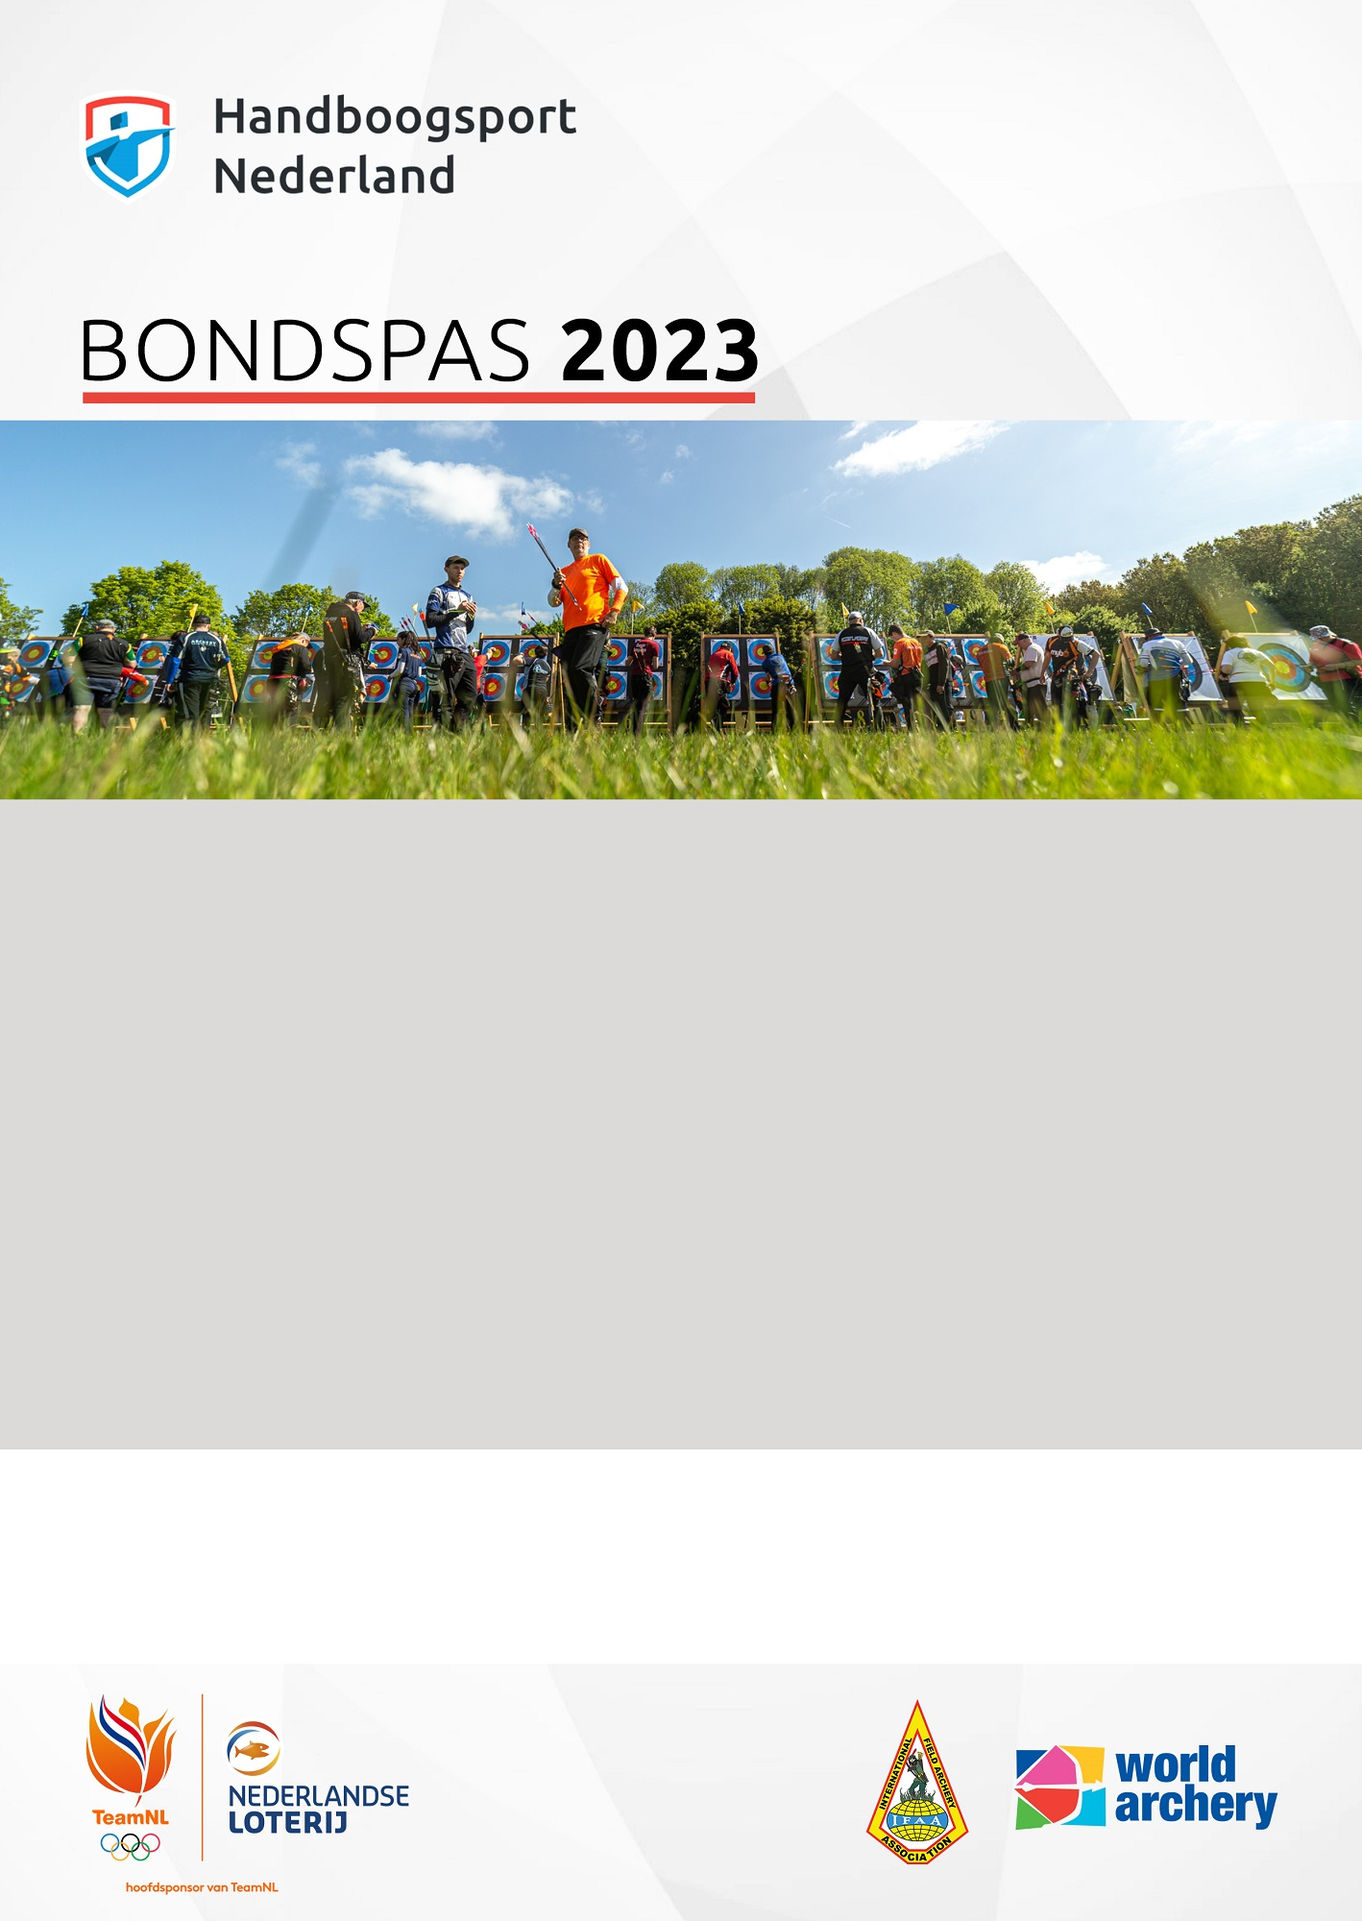
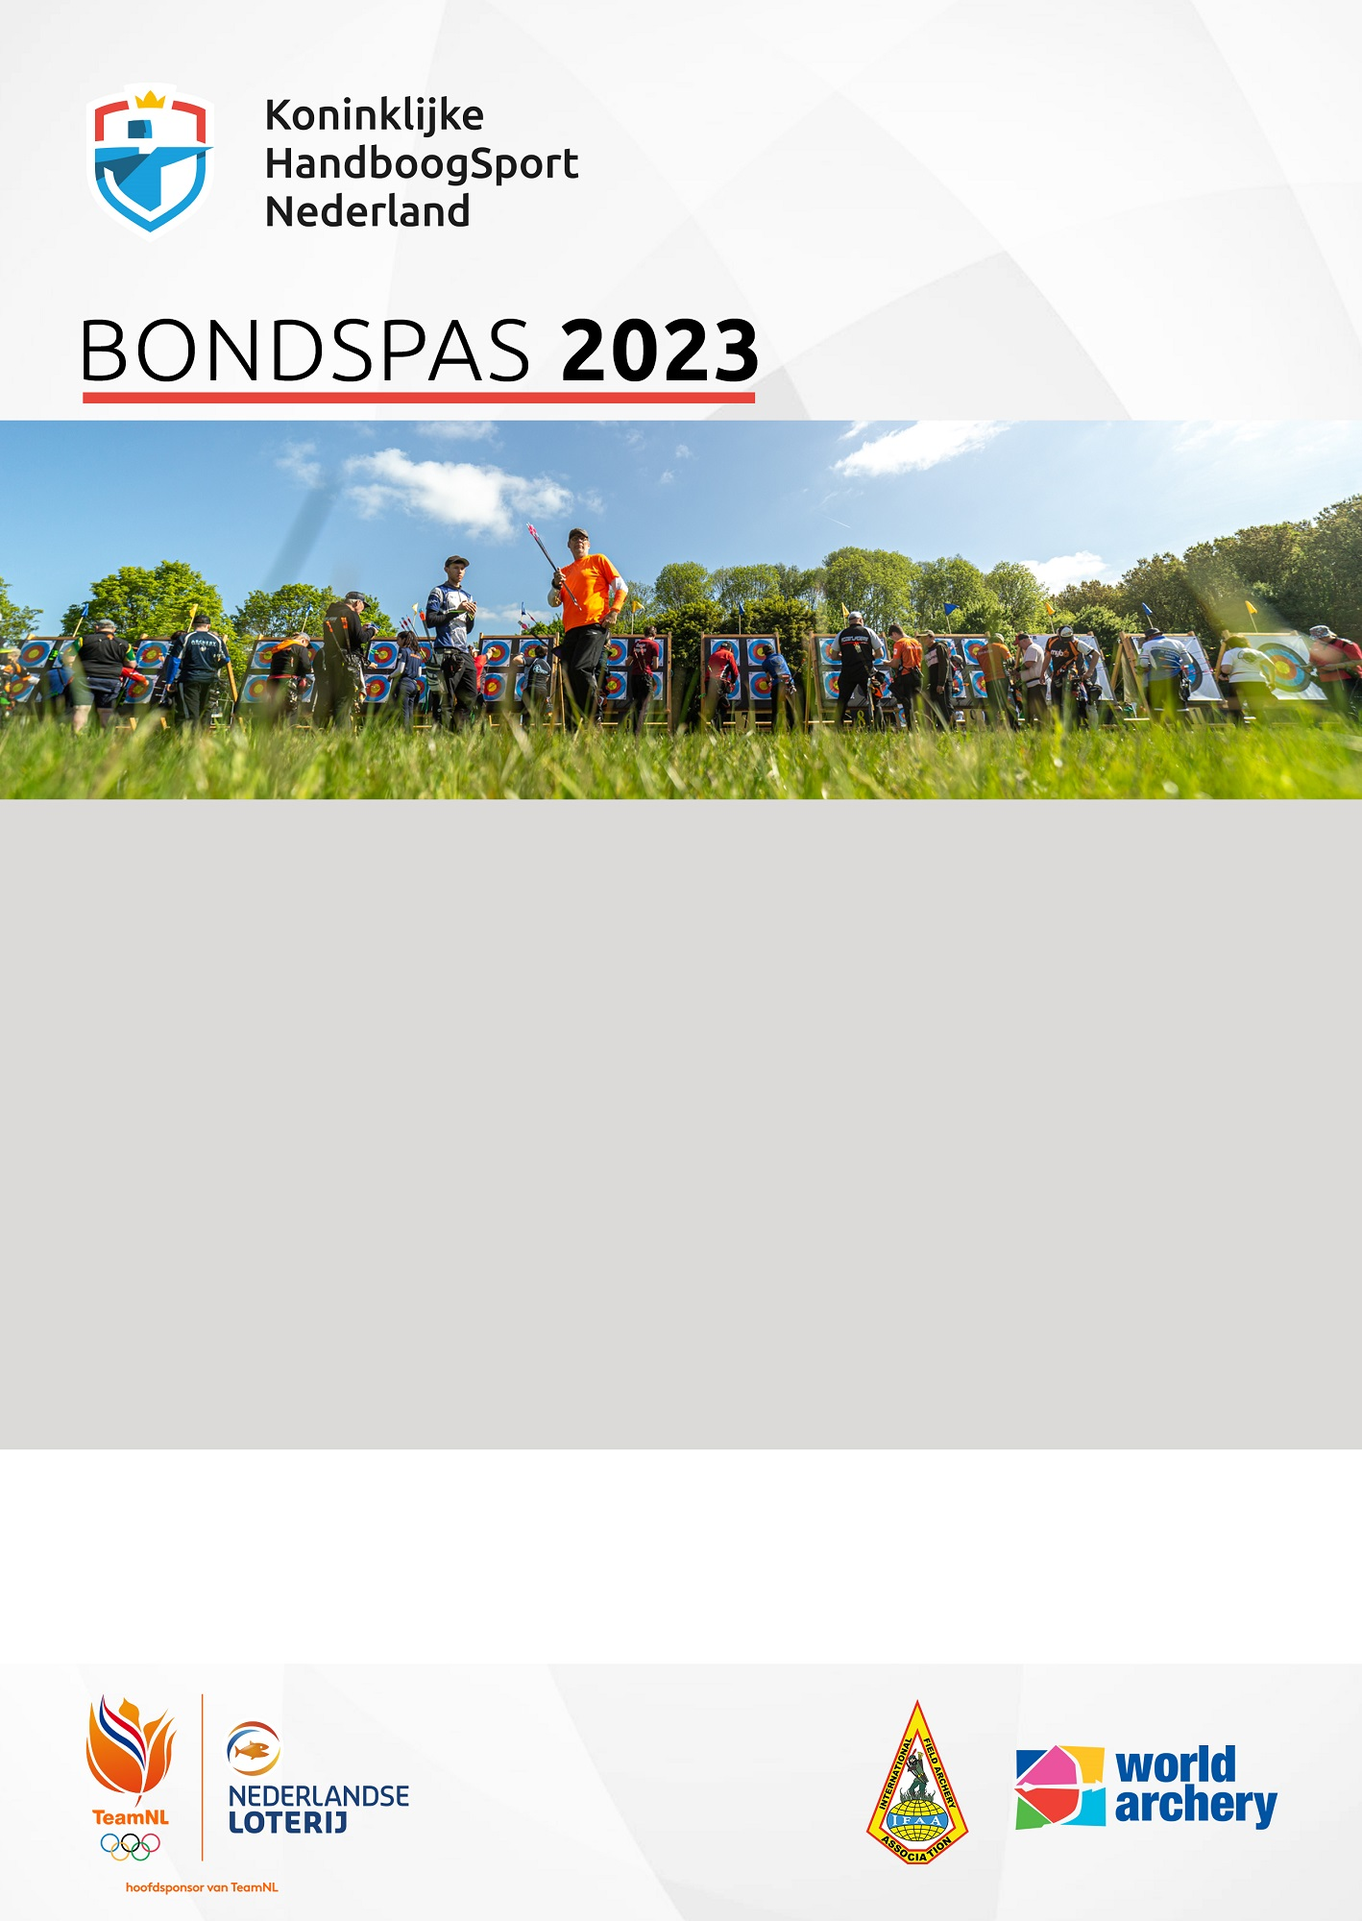
Organization rename to KHSN

Changed region(s): [[0.0621, 0.031, 0.4344, 0.124]]

diff --git a/Bondspas/view_online.py b/Bondspas/view_online.py
@@ -18,7 +18,7 @@ from Opleidingen.models import OpleidingDiploma
 from Plein.menu import menu_dynamics
 from Sporter.models import Sporter, get_sporter_voorkeuren
 from Sporter.leeftijdsklassen import (bereken_leeftijdsklasse_wa,
-                                      bereken_leeftijdsklasse_nhb,
+                                      bereken_leeftijdsklasse_khsn,
                                       bereken_leeftijdsklasse_ifaa)
 from PIL import Image, ImageFont, ImageDraw
 from PIL.TiffImagePlugin import ImageFileDirectory_v2
@@ -126,20 +126,20 @@ def maak_bondspas_regels(lid_nr, jaar):
         # geslacht M/V of
         # geslacht X + keuze voor M/V gemaakt
         wedstrijdgeslacht = voorkeur.wedstrijd_geslacht
-        wedstrijdgeslacht_nhb = voorkeur.wedstrijd_geslacht
+        wedstrijdgeslacht_khsn = voorkeur.wedstrijd_geslacht
     else:
         # geslacht X, geen keuze gemaakt --> neem mannen
         wedstrijdgeslacht = 'M'
-        wedstrijdgeslacht_nhb = GESLACHT_ANDERS
+        wedstrijdgeslacht_khsn = GESLACHT_ANDERS
 
     regels.append(('Wedstrijdklassen', ''))
 
     lkl_wa = bereken_leeftijdsklasse_wa(wedstrijdleeftijd_wa, wedstrijdgeslacht)
     regels.append(("WA", lkl_wa))
 
-    lkl_nhb = bereken_leeftijdsklasse_nhb(wedstrijdleeftijd_wa, wedstrijdgeslacht_nhb)
-    if lkl_nhb != lkl_wa:
-        regels.append(("NHB", lkl_nhb))
+    lkl_khsn = bereken_leeftijdsklasse_khsn(wedstrijdleeftijd_wa, wedstrijdgeslacht_khsn)
+    if lkl_khsn != lkl_wa:
+        regels.append(("KHSN", lkl_khsn))
 
     lkl_ifaa_1 = bereken_leeftijdsklasse_ifaa(wedstrijdleeftijd_ifaa_voor_verjaardag, wedstrijdgeslacht)
     lkl_ifaa_2 = bereken_leeftijdsklasse_ifaa(wedstrijdleeftijd_ifaa_vanaf_verjaardag, wedstrijdgeslacht)
@@ -219,7 +219,7 @@ def maak_bondspas_image(lid_nr, jaar, regels):
     font = ImageFont.truetype(settings.BONDSPAS_FONT, size=40)
     font_bold = ImageFont.truetype(settings.BONDSPAS_FONT_BOLD, size=45)
     color_black = (0, 0, 0)
-    color_grijs = (221, 217, 215)       # reverse engineered
+    # color_grijs = (221, 217, 215)       # reverse engineered
 
     # het grijze kader waarin de tekst moet komen
     # coördinaten: (0,0) = top-left
@@ -232,7 +232,7 @@ def maak_bondspas_image(lid_nr, jaar, regels):
     # color_grijs = (200, 200, 200)
     # draw.rectangle(((grijze_kader_x1, grijze_kader_y1), (grijze_kader_x2, grijze_kader_y2)), fill=color_grijs)
 
-    witte_kader_x1 = 0
+    # witte_kader_x1 = 0
     witte_kader_x2 = width
     witte_kader_y1 = grijze_kader_y2 + 1
     witte_kader_y2 = witte_kader_y1 + 225
@@ -258,24 +258,28 @@ def maak_bondspas_image(lid_nr, jaar, regels):
     wa_id = regels[1][1]
     regels = regels[2:]
 
-    _, _, text_width, text_height = draw.textbbox((0, 0), lid_nr, font=font_bold)
+    _, _, text_width, text_height = draw.textbbox((0, 0),
+                                                  lid_nr, font=font_bold)
 
     wa_id_x = bondsnr_x = witte_kader_x1
+    wa_id_y = witte_kader_y_midden + 25
 
     if len(wa_id):
         bondsnr_y = witte_kader_y_midden - 25
-        wa_id_y = witte_kader_y_midden + 25
     else:
         bondsnr_y = witte_kader_y_midden
 
     # bondsnummer
     # text anchors: https://pillow.readthedocs.io/en/stable/handbook/text-anchors.html
     bondsnr_width = draw.textlength("Bondsnummer: ", font=font)
-    draw.text((bondsnr_x, bondsnr_y), "Bondsnummer: ", color_black, font=font, anchor="lb")
-    draw.text((bondsnr_x + bondsnr_width, bondsnr_y), lid_nr, color_black, font=font_bold, anchor="lb")
+    draw.text((bondsnr_x, bondsnr_y),
+              "Bondsnummer: ", color_black, font=font, anchor="lb")
+    draw.text((bondsnr_x + bondsnr_width, bondsnr_y),
+              lid_nr, color_black, font=font_bold, anchor="lb")
 
     if len(wa_id):
-        draw.text((wa_id_x, wa_id_y), "World Archery ID: " + wa_id, color_black, font=font, anchor="lt")
+        draw.text((wa_id_x, wa_id_y),
+                  "World Archery ID: " + wa_id, color_black, font=font, anchor="lt")
 
     # barcode
     # 480 plaatst deze midden boven de logo's van WA en IFAA
@@ -315,11 +319,14 @@ def maak_bondspas_image(lid_nr, jaar, regels):
         if header:
             header += ': '
             if wkl:
-                draw.text((grijze_kader_x1 + header_width - header_width_wkl + wkl_indent, next_y), header, color_black, font=font_bold)
+                draw.text((grijze_kader_x1 + header_width - header_width_wkl + wkl_indent, next_y),
+                          header, color_black, font=font_bold)
             else:
-                draw.text((grijze_kader_x1, next_y), header, color_black, font=font)
+                draw.text((grijze_kader_x1, next_y),
+                          header, color_black, font=font)
 
-        draw.text((grijze_kader_x1 + header_width, next_y), regel, color_black, font=font)
+        draw.text((grijze_kader_x1 + header_width, next_y),
+                  regel, color_black, font=font)
         next_y += text_spacing
 
         if header == "Wedstrijdklassen: ":

diff --git a/Sporter/view_registreer_nhb.py b/Sporter/view_registreer_nhb.py
@@ -42,19 +42,19 @@ def sporter_create_account_nhb(lid_nr_str, email, nieuw_wachtwoord):
         # deze conversie beschermd ook tegen gevaarlijke invoer
         lid_nr = int(lid_nr_str)
     except ValueError:
-        raise AccountCreateError('Onbekend NHB nummer')
+        raise AccountCreateError('Onbekend bondsnummer')
 
     try:
         sporter = Sporter.objects.get(lid_nr=lid_nr)
     except Sporter.DoesNotExist:
-        raise AccountCreateError('Onbekend NHB nummer')
+        raise AccountCreateError('Onbekend bondsnummer')
 
     if not mailer_email_is_valide(sporter.email):
         raise SporterGeenEmail(sporter)
 
     # vergelijk e-mailadres hoofdletter ongevoelig
     if email.lower() != sporter.email.lower():
-        raise AccountCreateError('De combinatie van NHB nummer en email worden niet herkend. Probeer het nog eens.')
+        raise AccountCreateError('De combinatie van bondsnummer en email worden niet herkend. Probeer het nog eens.')
 
     if not sporter.is_actief_lid or not sporter.bij_vereniging:
         raise SporterInactief()
@@ -91,9 +91,9 @@ class RegistreerNhbNummerView(TemplateView):
                 sporter_create_account_nhb(nhb_nummer, email, nieuw_wachtwoord)
             except SporterGeenEmail as exc:
                 schrijf_in_logboek(account=None,
-                                   gebruikte_functie="Registreer met NHB nummer",
-                                   activiteit='NHB lid %s heeft geen email adres.' % nhb_nummer)
-                my_logger.info('%s REGISTREER Geblokkeerd voor NHB nummer %s (geen email)' % (from_ip, repr(nhb_nummer)))
+                                   gebruikte_functie="Registreer met bondsnummer",
+                                   activiteit='Lid %s heeft geen email adres.' % nhb_nummer)
+                my_logger.info('%s REGISTREER Geblokkeerd voor bondsnummer %s (geen email)' % (from_ip, repr(nhb_nummer)))
 
                 # redirect naar een pagina met een uitgebreider duidelijk bericht
                 context = {'sec_email': '',
@@ -121,23 +121,23 @@ class RegistreerNhbNummerView(TemplateView):
 
                 # schrijf in het logboek
                 schrijf_in_logboek(account=None,
-                                   gebruikte_functie="Registreer met NHB nummer",
+                                   gebruikte_functie="Registreer met bondsnummer",
                                    activiteit="Mislukt voor nhb nummer %s vanaf IP %s: %s" % (repr(nhb_nummer), from_ip, str(exc)))
-                my_logger.info('%s REGISTREER Mislukt voor NHB nummer %s met email %s (reden: %s)' % (from_ip, repr(nhb_nummer), repr(email), str(exc)))
+                my_logger.info('%s REGISTREER Mislukt voor bondsnummer %s met email %s (reden: %s)' % (from_ip, repr(nhb_nummer), repr(email), str(exc)))
             except SporterInactief:
                 # lid is mag niet gebruik maken van de diensten van de NHB, inclusief deze website
                 schrijf_in_logboek(account=None,
-                                   gebruikte_functie="Registreer met NHB nummer",
-                                   activiteit='NHB lid %s is inactief (geblokkeerd van gebruik NHB diensten).' % nhb_nummer)
-                form.add_error(None, 'Gebruik van NHB diensten is geblokkeerd. Neem contact op met de secretaris van je vereniging.')
-                my_logger.info('%s REGISTREER Geblokkeerd voor NHB nummer %s (inactief)' % (from_ip, repr(nhb_nummer)))
+                                   gebruikte_functie="Registreer met bondsnummer",
+                                   activiteit='Lid %s is inactief (geblokkeerd van gebruik KHSN diensten).' % nhb_nummer)
+                form.add_error(None, 'Gebruik van KHSN diensten is geblokkeerd. Neem contact op met de secretaris van je vereniging.')
+                my_logger.info('%s REGISTREER Geblokkeerd voor bondsnummer %s (inactief)' % (from_ip, repr(nhb_nummer)))
                 # FUTURE: redirect naar een pagina met een uitgebreider duidelijk bericht
             else:
                 # schrijf in het logboek
                 schrijf_in_logboek(account=None,
-                                   gebruikte_functie="Registreer met NHB nummer",
-                                   activiteit="Account aangemaakt voor NHB nummer %s vanaf IP %s" % (repr(nhb_nummer), from_ip))
-                my_logger.info('%s REGISTREER account aangemaakt voor NHB nummer %s' % (from_ip, repr(nhb_nummer)))
+                                   gebruikte_functie="Registreer met bondsnummer",
+                                   activiteit="Account aangemaakt voor bondsnummer %s vanaf IP %s" % (repr(nhb_nummer), from_ip))
+                my_logger.info('%s REGISTREER account aangemaakt voor bondsnummer %s' % (from_ip, repr(nhb_nummer)))
 
                 request.session['login_naam'] = nhb_nummer
                 request.session['partial_email'] = mailer_obfuscate_email(email)

diff --git a/Sporter/leeftijdsklassen.py b/Sporter/leeftijdsklassen.py
@@ -4,7 +4,7 @@
 #  All rights reserved.
 #  Licensed under BSD-3-Clause-Clear. See LICENSE file for details.
 
-""" ondersteuning voor de leeftijdsklassen binnen de NHB applicaties """
+""" ondersteuning voor de leeftijdsklassen binnen de applicatie """
 
 from BasisTypen.definities import (GESLACHT_ALLE, GESLACHT_ANDERS, GESLACHT_MAN,
                                    ORGANISATIE_IFAA, ORGANISATIE_NHB, ORGANISATIE_WA,
@@ -12,7 +12,7 @@ from BasisTypen.definities import (GESLACHT_ALLE, GESLACHT_ANDERS, GESLACHT_MAN,
 from BasisTypen.models import LeeftijdsKlasse, TemplateCompetitieIndivKlasse
 
 
-def bereken_leeftijdsklassen_nhb(geboorte_jaar, wedstrijdgeslacht_nhb, huidige_jaar):
+def bereken_leeftijdsklassen_khsn(geboorte_jaar, wedstrijdgeslacht_nhb, huidige_jaar):
     """ retourneert de wedstrijdklassen voor een sporter vanaf 1 jaar terug tot 4 jaar vooruit.
         wedstrijdgeslacht_nhb kan zijn GESLACHT_MAN, GESLACHT_VROUW of GESLACHT_ANDERS
 
@@ -116,7 +116,7 @@ def bereken_leeftijdsklassen_nhb(geboorte_jaar, wedstrijdgeslacht_nhb, huidige_j
 
 def bereken_leeftijdsklassen_bondscompetitie(geboorte_jaar, wedstrijdgeslacht_nhb, huidige_jaar, huidige_maand):
     """ retourneert de wedstrijdklassen voor een sporter vanaf 1 jaar terug tot 4 jaar vooruit
-        voor de bondscompetities van de NHB.
+        voor de bondscompetities van de KHSN.
         wedstrijdgeslacht_nhb kan zijn GESLACHT_MAN, GESLACHT_VROUW of GESLACHT_ANDERS
 
         Retourneert:
@@ -406,9 +406,9 @@ def bereken_leeftijdsklasse_ifaa(wedstrijdleeftijd, wedstrijdgeslacht):
     return gevonden_lkl.beschrijving
 
 
-def bereken_leeftijdsklasse_nhb(wedstrijdleeftijd, wedstrijdgeslacht):
+def bereken_leeftijdsklasse_khsn(wedstrijdleeftijd, wedstrijdgeslacht):
     """
-        bepaal de meest exacte NHB leeftijdsklasse voor een sporter
+        bepaal de meest exacte KHSN leeftijdsklasse voor een sporter
         afhankelijk van zijn geboortejaar en wedstrijdgeslacht.
 
         Voorbeeld: Onder 12 Meisjes

diff --git a/Sporter/view_leeftijdsklassen.py b/Sporter/view_leeftijdsklassen.py
@@ -14,7 +14,7 @@ from Functie.definities import Rollen
 from Functie.rol import rol_get_huidige
 from Plein.menu import menu_dynamics
 from Sporter.leeftijdsklassen import (bereken_leeftijdsklassen_wa,
-                                      bereken_leeftijdsklassen_nhb,
+                                      bereken_leeftijdsklassen_khsn,
                                       bereken_leeftijdsklassen_ifaa,
                                       bereken_leeftijdsklassen_bondscompetitie)
 from Sporter.models import get_sporter_voorkeuren
@@ -26,6 +26,8 @@ TEMPLATE_LEEFTIJDSGROEPEN = 'sporter/leeftijdsgroepen.dtl'
 
 
 def redirect_leeftijdsklassen(request):
+    """ Deze functie wordt gebruikt om een oude URL om te leiden naar de nieuwe """
+    # TODO: verwijder in 2024
     url = reverse('Sporter:leeftijdsklassen')
     return HttpResponseRedirect(url)
 
@@ -75,7 +77,7 @@ class WedstrijdLeeftijdenPersoonlijkView(UserPassesTestMixin, TemplateView):
         context['lkl_wa'] = lkl_list
         context['lkl_wa_dit_jaar'] = lkl_dit_jaar
 
-        huidige_jaar, leeftijd, lkl_dit_jaar, lkl_lst = bereken_leeftijdsklassen_nhb(geboorte_jaar, wedstrijdgeslacht_nhb, now.year)
+        huidige_jaar, leeftijd, lkl_dit_jaar, lkl_lst = bereken_leeftijdsklassen_khsn(geboorte_jaar, wedstrijdgeslacht_nhb, now.year)
         context['lkl_nhb'] = lkl_lst
         spl = lkl_dit_jaar.split(' of ')
         context['lkl_nhb_dit_jaar_1'] = spl[0]

diff --git a/Sporter/forms.py b/Sporter/forms.py
@@ -15,14 +15,14 @@ class RegistreerForm(forms.Form):
         met een NHB nummer.
     """
     nhb_nummer = forms.CharField(
-                        label='NHB nummer',
+                        label='Bondsnummer',
                         min_length=6,
                         max_length=6,
                         required=True,
                         widget=forms.TextInput(attrs={'autofocus': True}))
 
     email = forms.EmailField(
-                        label='E-mail adres zoals bekend bij de NHB',
+                        label='E-mail adres zoals bekend bij de KHSN',
                         required=True)
 
     nieuw_wachtwoord = forms.CharField(

diff --git a/Account/view_wachtwoord.py b/Account/view_wachtwoord.py
@@ -98,7 +98,7 @@ class WachtwoordVergetenView(TemplateView):
 
             except AccountEmail.DoesNotExist:
                 # email is niet bekend en past niet bij de inlog naam
-                context['foutmelding'] = 'Voer het e-mailadres en NHB nummer in van een bestaand account'
+                context['foutmelding'] = 'Voer het e-mailadres en bondsnummer in van een bestaand account'
                 # (niet te veel wijzer maken over de combi NHB nummer en e-mailadres)
 
         # we controleren hier niet of het account inactief is, dat doet login wel weer

diff --git a/Functie/management/commands/check_beheerders.py b/Functie/management/commands/check_beheerders.py
@@ -34,7 +34,7 @@ class Command(BaseCommand):
                     sporter = account.sporter_set.prefetch_related('bij_vereniging').all()[0]
                 except IndexError:
                     sporter = None
-                    let_op = 'LET OP: account heeft geen koppeling met NHB lid'
+                    let_op = 'LET OP: account heeft geen koppeling met lid'
                 else:
                     if not sporter.bij_vereniging or not sporter.is_actief_lid:
                         # deze melding komt na 15 januari

diff --git a/Sporter/tests/test_login.py b/Sporter/tests/test_login.py
@@ -116,7 +116,7 @@ class TestSporterLogin(E2EHelpers, TestCase):
 
         resp = self.e2e_login_no_check(self.account_normaal, follow=True)
         self.assertEqual(resp.status_code, 200)
-        self.assertContains(resp, 'We hebben een nieuw e-mailadres doorgekregen uit de administratie van de NHB')
+        self.assertContains(resp, 'We hebben een nieuw e-mailadres doorgekregen uit de administratie van de KHSN')
         self.assertContains(resp, 'ni###e@test.com')
 
         # check niet ingelogd

diff --git a/Records/management/commands/check_records_wa.py b/Records/management/commands/check_records_wa.py
@@ -108,7 +108,7 @@ class Command(BaseCommand):         # pragma: no cover      # FUTURE: commando i
                 return self._cache_nhb[rec.pk]
         # for
 
-        self.stdout.write('[WARNING] Geen passend NHB record gevonden: soort=%s' % soort)
+        self.stdout.write('[WARNING] Geen passend KHSN record gevonden: soort=%s' % soort)
         self.stdout.write('          voor %s' % wa_rec)
         for rec in recs:
             self.stdout.write('          Kandidaat: %s' % rec)

diff --git a/Account/forms.py b/Account/forms.py
@@ -17,7 +17,7 @@ class LoginForm(forms.Form):
         super().__init__(*args, **kwargs)
 
     login_naam = forms.CharField(
-                        label='Inlog naam (NHB nummer of e-mailadres)',
+                        label='Inlog naam (Bondsnummer of e-mailadres)',
                         max_length=50,
                         required=False,
                         widget=forms.TextInput(attrs={'autofocus': True, 'autocomplete': 'username'}))

diff --git a/Mailer/operations.py b/Mailer/operations.py
@@ -139,7 +139,7 @@ def render_email_template(context, email_template_name):
         Returns: email body in text, html + email_template_name
     """
 
-    context['logo_url'] = settings.SITE_URL + static('plein/logo_with_text_nhb.png')
+    context['logo_url'] = settings.SITE_URL + static('plein/logo_with_text_khsn.png')
     context['logo_width'] = 213
     context['logo_height'] = 50
 

diff --git a/NhbStructuur/management/commands/import_nhb_crm.py b/NhbStructuur/management/commands/import_nhb_crm.py
@@ -59,7 +59,7 @@ OPTIONAL_MEMBER_KEYS = ('skill_levels', 'educations')
 
 class Command(BaseCommand):
 
-    help = "Importeer een JSON file met data uit het CRM systeem van de NHB"
+    help = "Importeer een JSON file met data uit het CRM systeem van de KHSN"
 
     def __init__(self):
         super().__init__()
